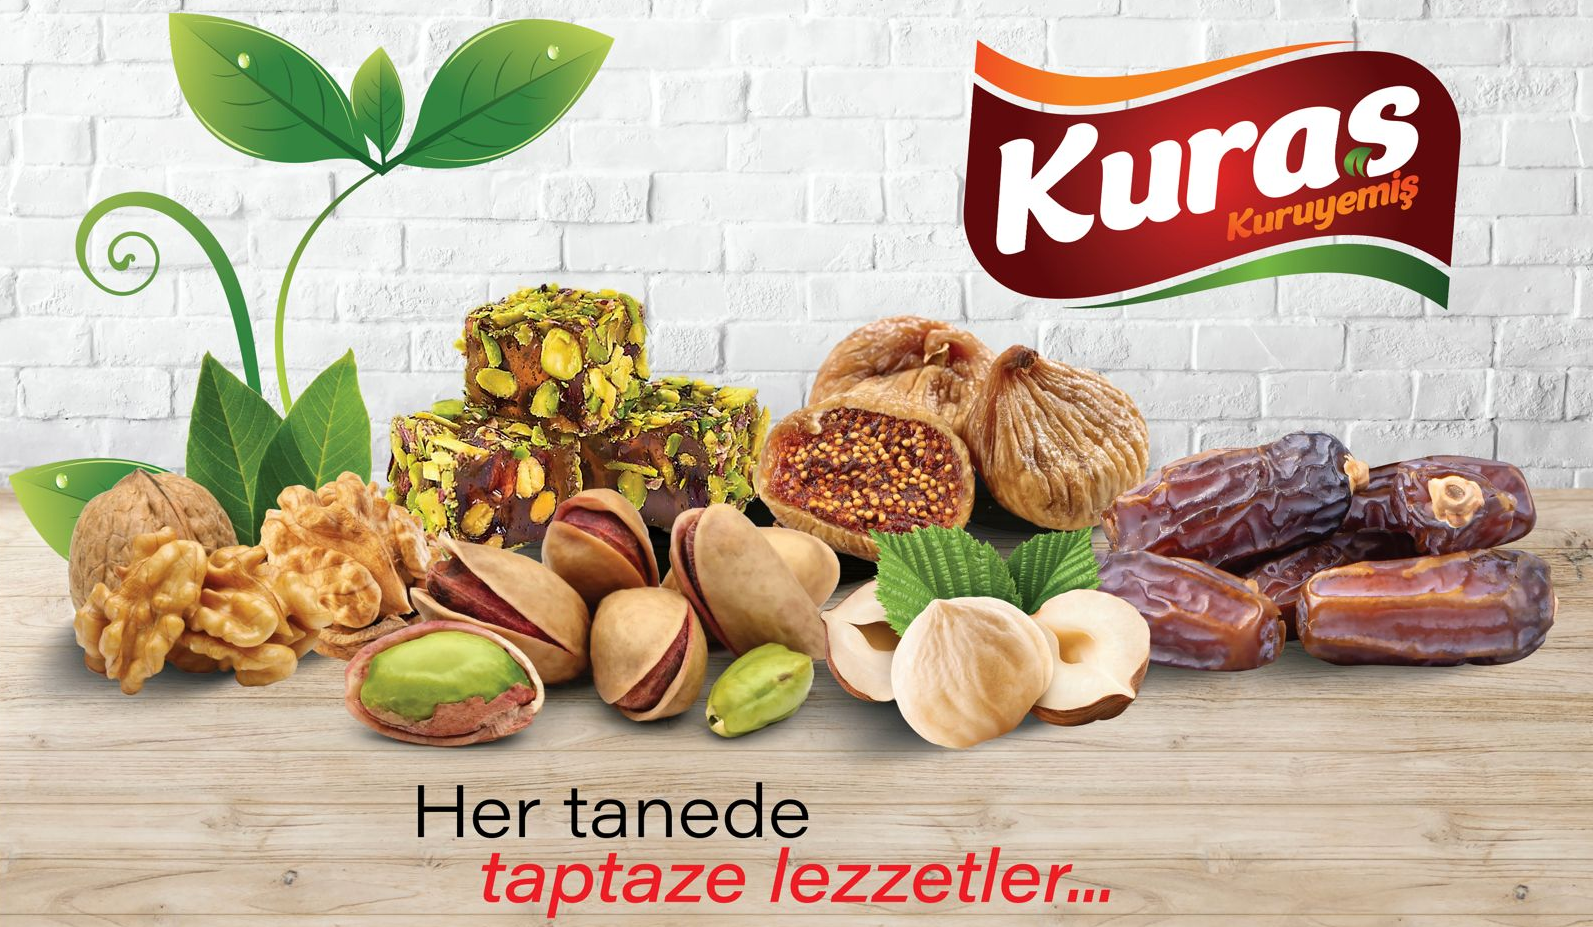
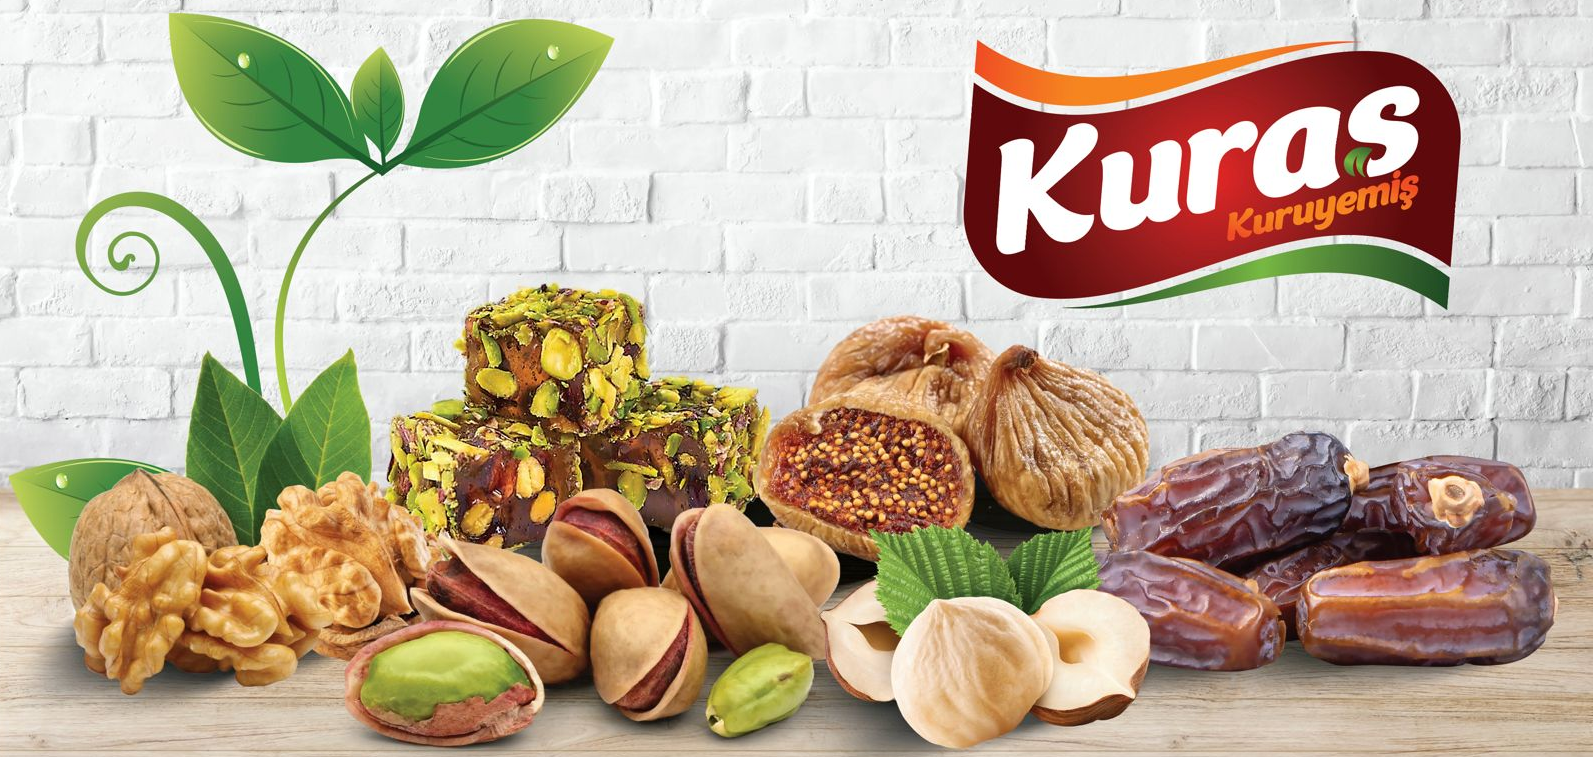
acac

diff --git a/templates/products/public_list.html b/templates/products/public_list.html
@@ -3,7 +3,6 @@
 
 {% block content %}
 <style>
-
     .product-card {
         transition: transform 0.3s ease, box-shadow 0.3s ease;
         border-radius: 12px;
@@ -45,11 +44,48 @@
         border-radius: 12px;
         box-shadow: 0 4px 20px rgba(0,0,0,0.03);
     }
+    
+    /* Hero Carousel Görsel Boyutlandırması */
+    .hero-carousel-img {
+        max-height: 500px; /* Yüksekliği buradan ayarlayabilirsiniz (Örn: 250px, 400px) */
+        object-fit: cover;
+        width: 100%;
+    }
 </style>
     
-<!-- Hero Alanı -->
+<!-- Hero Alanı (Boyutu Küçültülmüş Kayan Görseller) -->
 <div class="mt-3 mb-4">
-    <img src="{% static 'img/hero1.png' %}" class="img-fluid w-100 rounded-3 shadow-sm" alt="Kuraş Kuruyemiş Kataloğu">
+    <div id="heroCarousel" class="carousel slide carousel-fade shadow-sm rounded-3 overflow-hidden" data-bs-ride="carousel" data-bs-interval="3000">
+        
+        <div class="carousel-indicators">
+            <button type="button" data-bs-target="#heroCarousel" data-bs-slide-to="0" class="active" aria-current="true" aria-label="Slide 1"></button>
+            <button type="button" data-bs-target="#heroCarousel" data-bs-slide-to="1" aria-label="Slide 2"></button>
+            <button type="button" data-bs-target="#heroCarousel" data-bs-slide-to="2" aria-label="Slide 3"></button>
+        </div>
+
+        <div class="carousel-inner">
+            <div class="carousel-item active">
+                <img src="{% static 'img/hero1.png' %}" class="d-block hero-carousel-img" alt="Kuraş Kuruyemiş Kampanya 1">
+            </div>
+            
+            <div class="carousel-item">
+                <img src="{% static 'img/hero2.png' %}" class="d-block hero-carousel-img" alt="Kuraş Kuruyemiş Kampanya 2">
+            </div>
+            
+            <div class="carousel-item">
+                <img src="{% static 'img/hero3.png' %}" class="d-block hero-carousel-img" alt="Kuraş Kuruyemiş Kampanya 3">
+            </div>
+        </div>
+
+        <button class="carousel-control-prev" type="button" data-bs-target="#heroCarousel" data-bs-slide="prev">
+            <span class="carousel-control-prev-icon" aria-hidden="true"></span>
+            <span class="visually-hidden">Önceki</span>
+        </button>
+        <button class="carousel-control-next" type="button" data-bs-target="#heroCarousel" data-bs-slide="next">
+            <span class="carousel-control-next-icon" aria-hidden="true"></span>
+            <span class="visually-hidden">Sonraki</span>
+        </button>
+    </div>
 </div>
 
 <div class="filter-bar p-3 mb-5 mt-2">
@@ -84,7 +120,8 @@
     </form>
 </div>
 
-<div class="row row-cols-2 row-cols-md-3 g-2 g-md-4">
+<!-- Yan yana 4 ürün olması için row-cols-md-3 -> row-cols-md-4 yapıldı (Büyük ekranlar için 4'lü grid) -->
+<div class="row row-cols-2 row-cols-md-4 g-2 g-md-4">
     {% for product in products %}
     <div class="col">
         <div class="card h-100 border-0 shadow-sm product-card bg-white">

diff --git a/templates/public_base.html b/templates/public_base.html
@@ -17,7 +17,7 @@
         :root {
             --brand-primary: #4A2E1B;
             --brand-accent: #C5832B;
-            --bg-color: #FDFBF7;
+            --bg-color: #FFFFFF;
             --text-main: #333333;
         }
 
@@ -134,6 +134,13 @@
         .nav-link:hover {
             color: var(--brand-accent) !important;
         }
+        /* Logoyu navbarı büyütmeden görsel olarak ölçeklendirir */
+        .custom-logo {
+            transform: scale(1.3); /* 1.3 değeri logoyu %30 büyütür. İhtiyacınıza göre 1.2 veya 1.5 yapabilirsiniz. */
+            transform-origin: left center; /* Büyümenin sol taraftan sabit kalarak gerçekleşmesini sağlar */
+            position: relative;
+            z-index: 1060; /* Diğer elemanların altında kalmaması için */
+        }
 
         .navbar-toggler {
             border: none;
@@ -185,7 +192,8 @@
     <nav class="navbar navbar-expand-lg sticky-top py-3">
     <div class="container">
         <a class="navbar-brand d-flex flex-column" href="{% url 'home' %}">
-            <img src="{% static 'img/kuras.png' %}" alt="Kuraş Kuruyemiş Logo" height="100" class="me-2">
+    <!-- class kısmına custom-logo eklendi -->
+            <img src="{% static 'img/kuras.png' %}" alt="Kuraş Kuruyemiş Logo" height="100" class="me-2 custom-logo">
         </a>
 
         <button class="navbar-toggler" type="button" data-bs-toggle="collapse" data-bs-target="#mainNavbar">
@@ -253,14 +261,16 @@
 </nav>
 
     <div class="bg-nuts-container d-none d-lg-block">
-        <img src="{% static 'img/bg-nuts.png' %}" alt="Kuruyemiş" style="width: 200px; mix-blend-mode: multiply;">
+        <img src="{% static 'img/bg-nuts1.png' %}" alt="Kuruyemiş" style="width: 200px; mix-blend-mode: multiply;">
     </div>
 
     <div class="container pb-5 content-wrapper flex-grow-1 mt-4">
         <div class="row">
-            <div class="col-lg-2 d-none d-lg-block position-relative"></div> 
+            <!-- Boşluğu 2'den 1'e düşürdük (Bir tık sola kaydırır) -->
+            <div class="col-lg-1 d-none d-lg-block position-relative"></div> 
             
-            <div class="col-lg-10">
+            <!-- İçerik alanını 10'dan 11'e çıkardık -->
+            <div class="col-lg-11">
                 {% block content %}{% endblock %}
             </div>
         </div>
